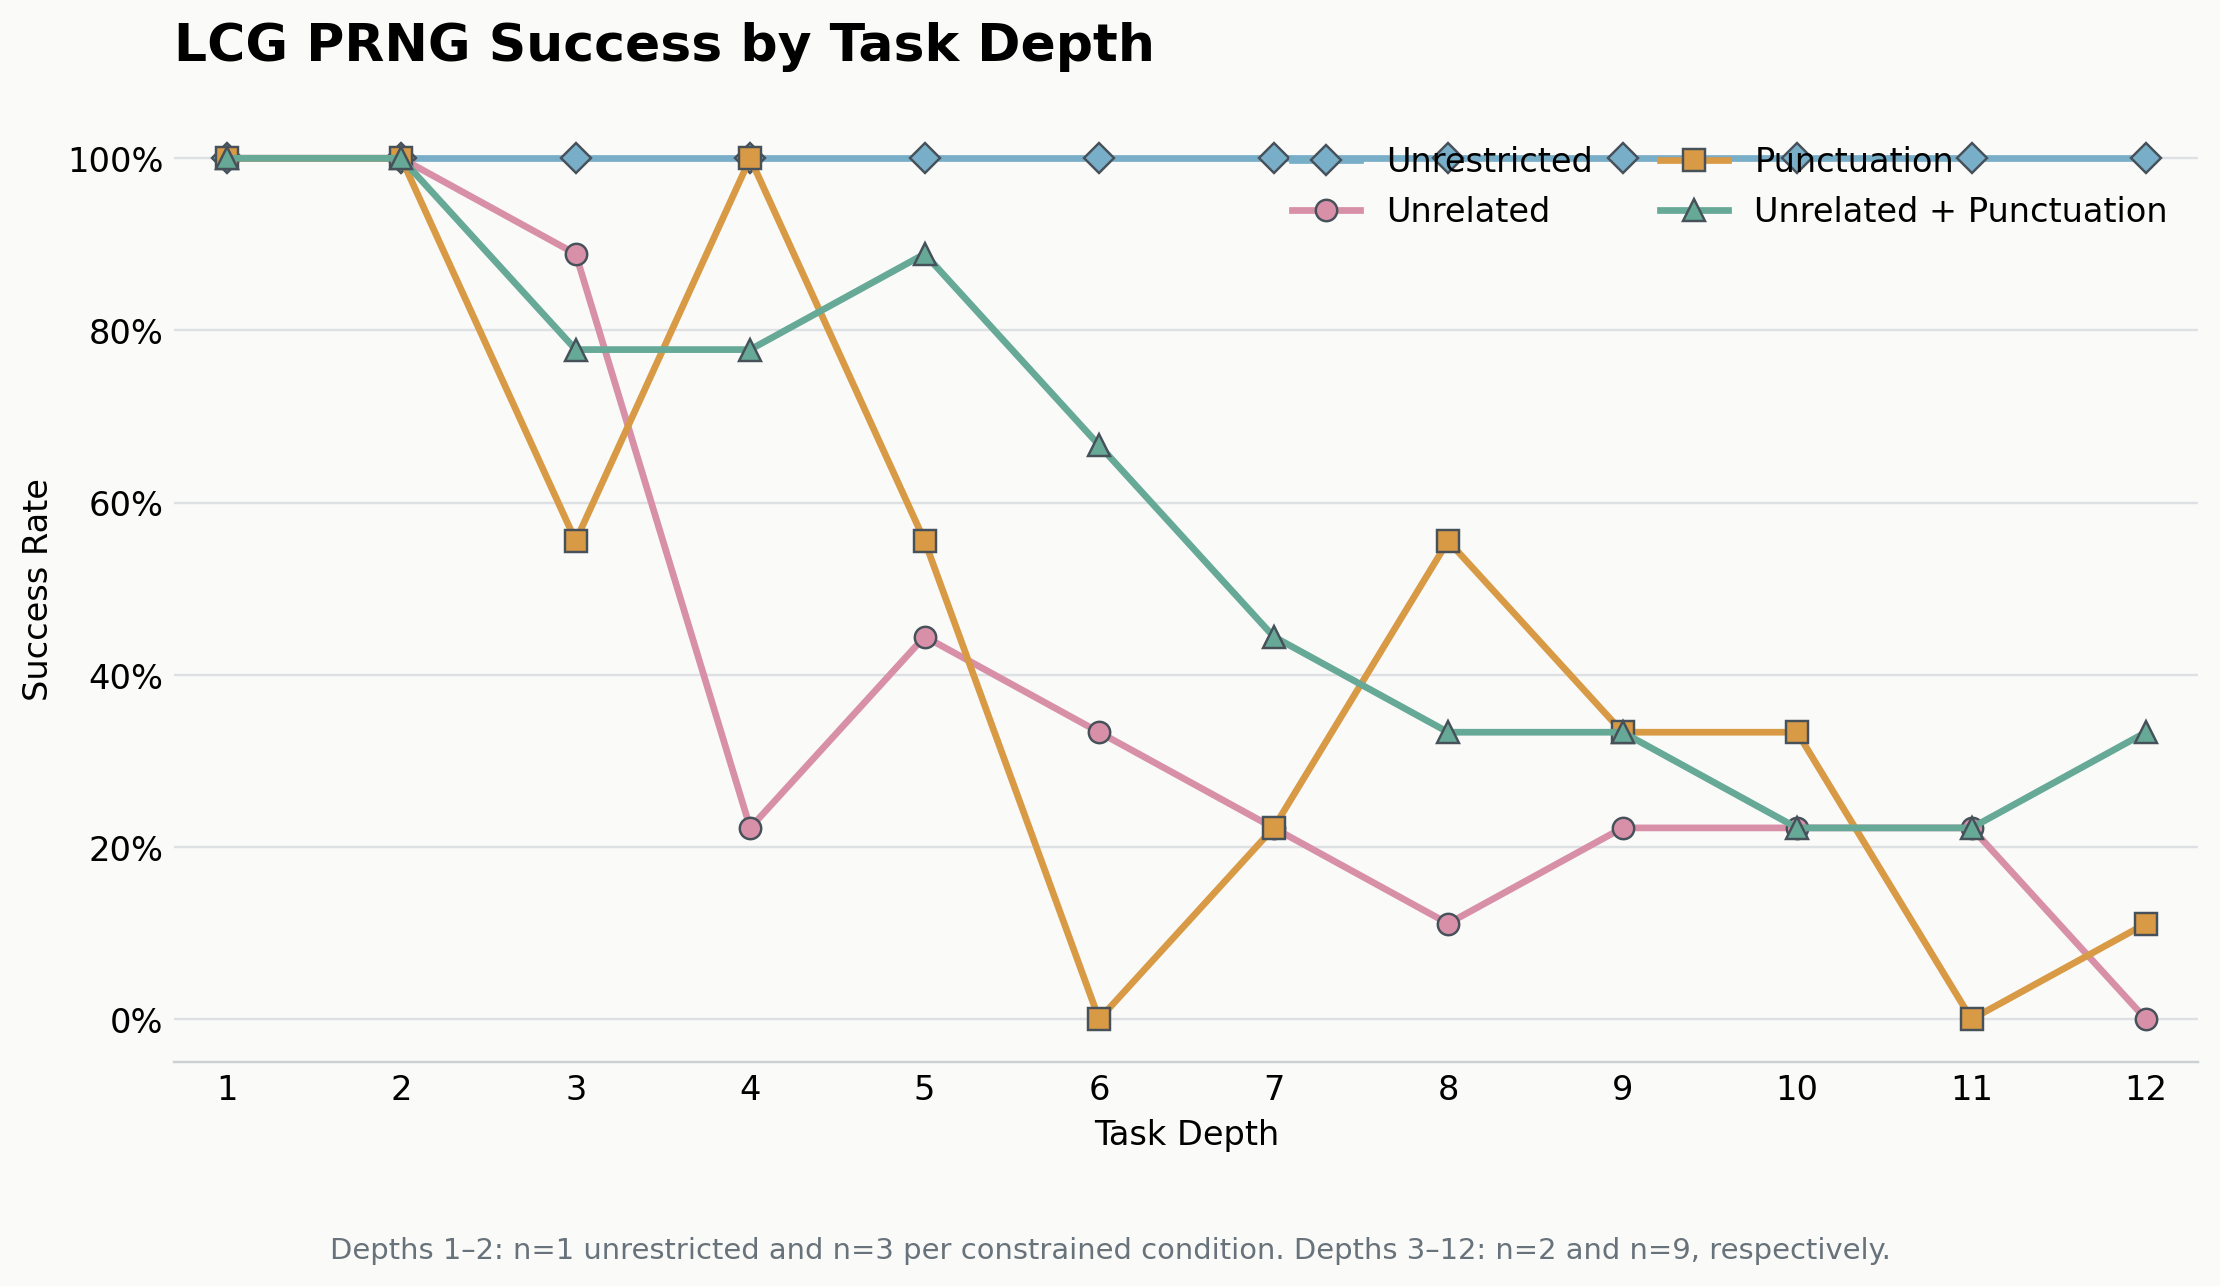
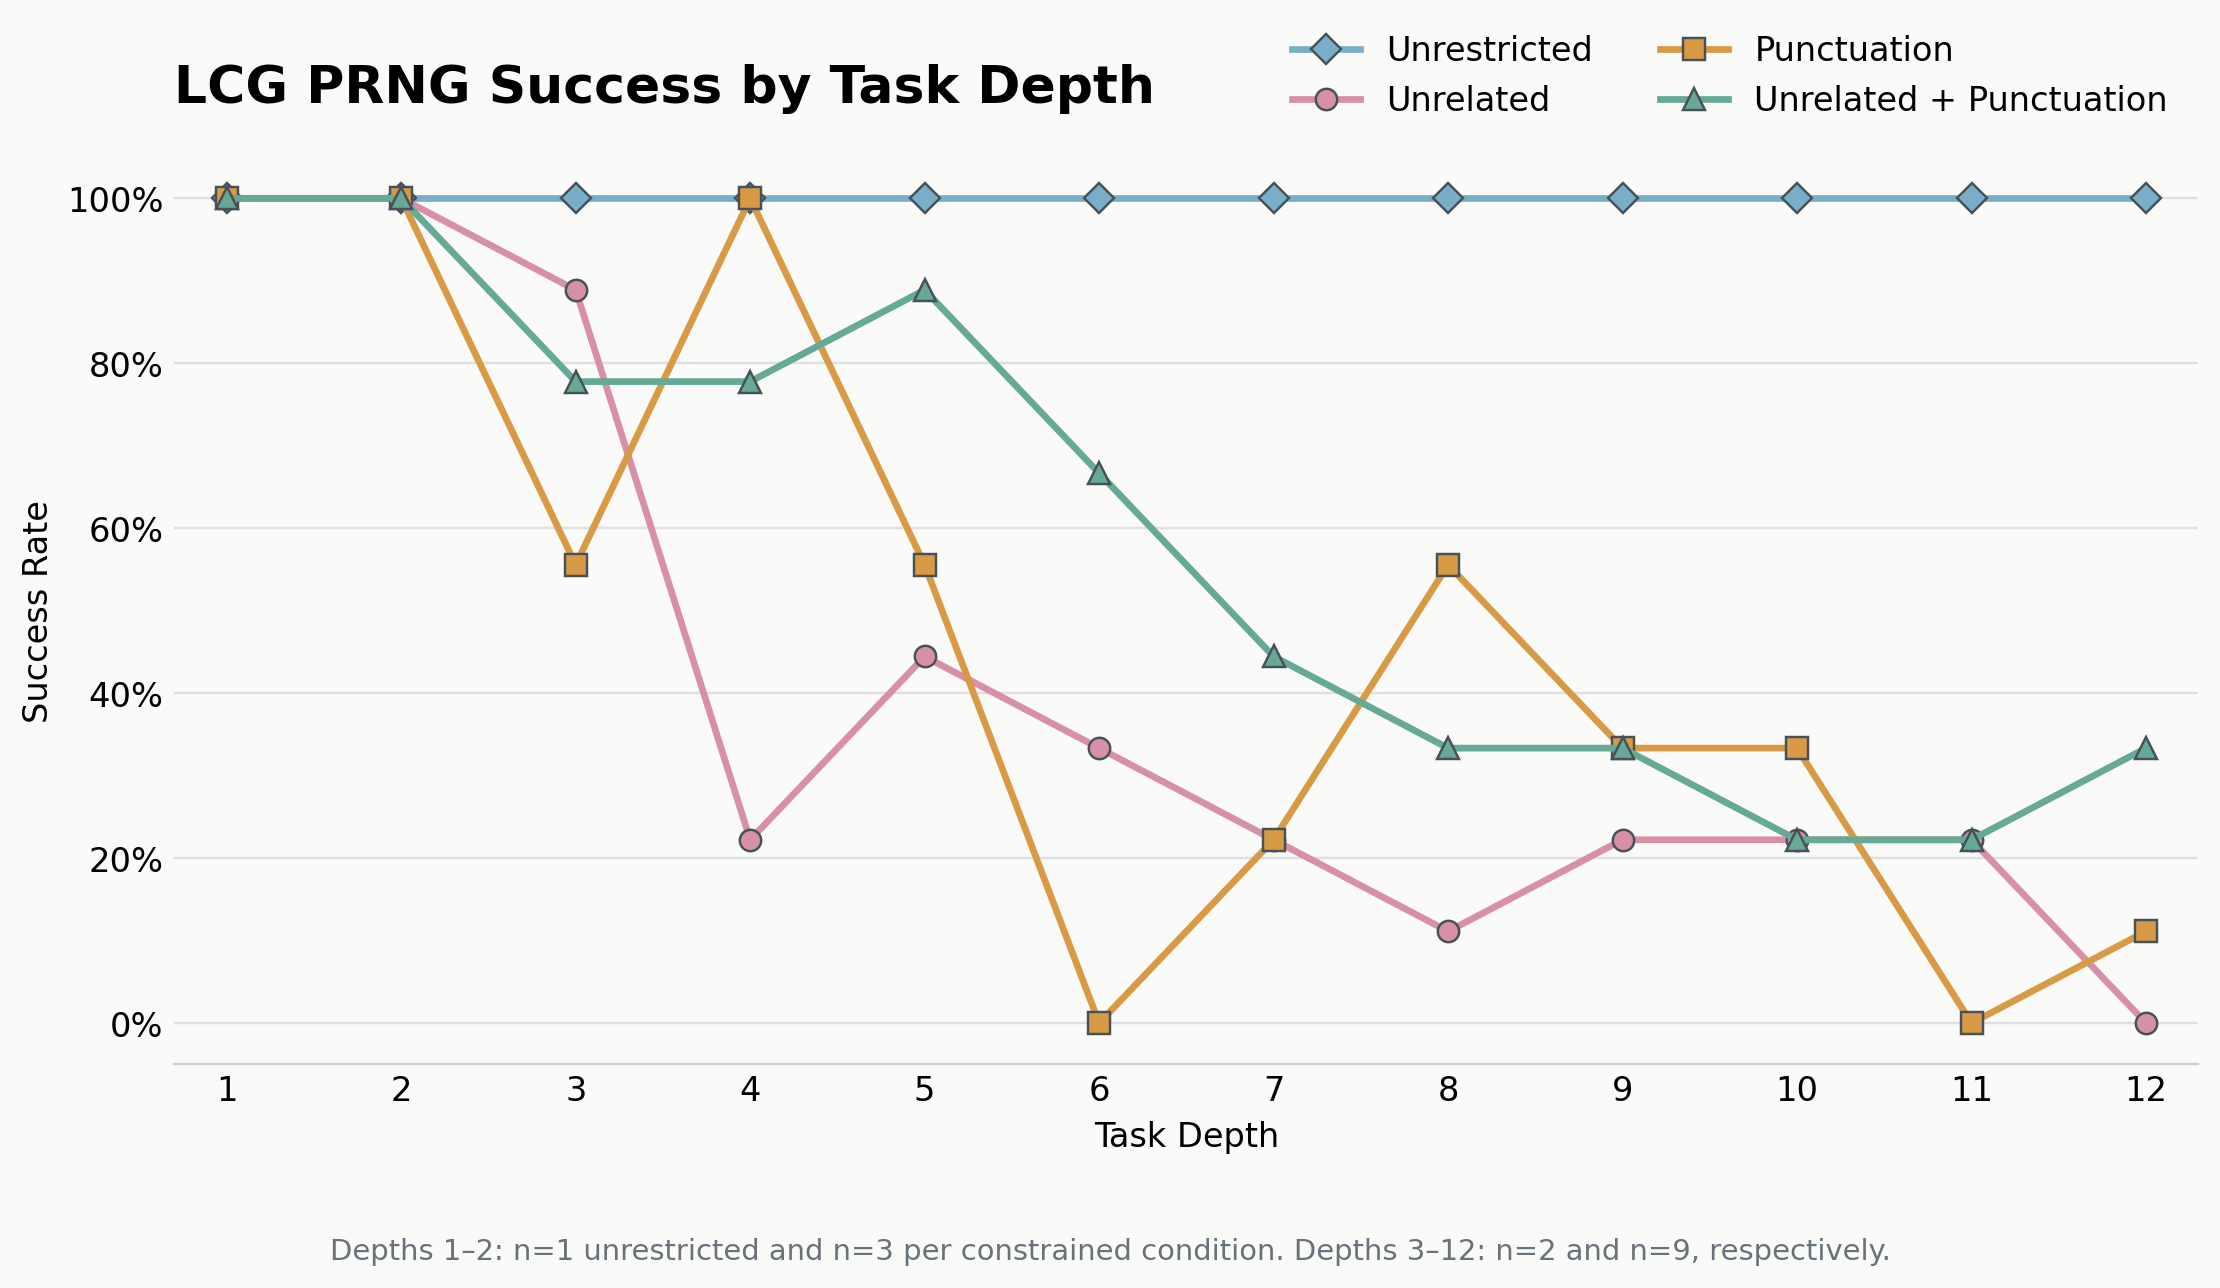
Move LCG chart legend above plot

diff --git a/experiment-2/scripts/make_lcg_scaled_chart.py b/experiment-2/scripts/make_lcg_scaled_chart.py
@@ -69,7 +69,12 @@ def main() -> None:
     axis.grid(axis="y", color="#DDE1E3", linewidth=0.8)
     axis.set_axisbelow(True)
     axis.tick_params(axis="both", length=0)
-    axis.legend(frameon=False, loc="upper right", ncol=2)
+    axis.legend(
+        frameon=False,
+        loc="lower right",
+        bbox_to_anchor=(1, 1.01),
+        ncol=2,
+    )
     figure.text(
         0.5,
         0.01,
